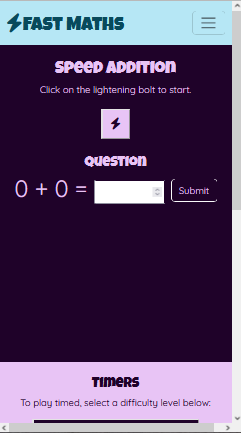
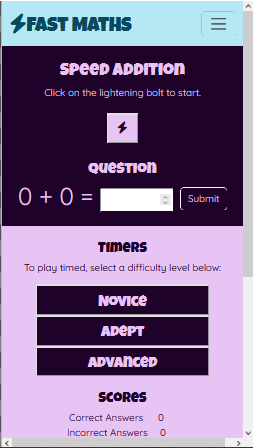
Added col-sm-12 to debug the calc() problem.

diff --git a/subtraction.html b/subtraction.html
@@ -63,7 +63,7 @@
 <!-- Game -->
 
 <div class="row g-0">
-    <div class="col-md-6 main-content game-area color-scheme-ax">
+    <div class="col-md-6 col-sm-12 main-content game-area color-scheme-ax">
         <section>
         <h1 class="main-title">Speed Subtraction</h1>
             <p>Click on the lightening bolt to start.</p>
@@ -93,7 +93,7 @@
 
 <!-- Timer -->
 
-    <div class="col-md-6 main-content color-scheme-ay">
+    <div class="col-md-6 col-sm-12 main-content color-scheme-ay">
         <section>
             <div class="row timer-row g-0">
                 <h3>Timers</h3>

diff --git a/addition.html b/addition.html
@@ -63,7 +63,7 @@
 <!-- Game -->
 
 <div class="row g-0">
-    <div class="col-md-6 main-content game-area color-scheme-ax">
+    <div class="col-md-6 col-sm-12 main-content game-area color-scheme-ax">
         <section>
         <h1 class="main-title">Speed Addition</h1>
             <p>Click on the lightening bolt to start.</p>
@@ -93,7 +93,7 @@
 
 <!-- Timer -->
 
-    <div class="col-md-6 main-content color-scheme-ay">
+    <div class="col-md-6 col-sm-12 main-content color-scheme-ay">
         <section>
             <div class="row timer-row g-0">
                 <h3>Timers</h3>

diff --git a/division.html b/division.html
@@ -63,7 +63,7 @@
 <!-- Game -->
 
 <div class="row g-0">
-    <div class="col-md-6 main-content game-area color-scheme-ax">
+    <div class="col-md-6 col-sm-12 main-content game-area color-scheme-ax">
         <section>
         <h1 class="main-title">Speed Division</h1>
             <p>Click on the lightening bolt to start.</p>
@@ -93,7 +93,7 @@
 
 <!-- Timer -->
 
-    <div class="col-md-6 main-content color-scheme-ay">
+    <div class="col-md-6 col-sm-12 main-content color-scheme-ay">
         <section>
             <div class="row timer-row g-0">
                 <h3>Timers</h3>

diff --git a/multiplication.html b/multiplication.html
@@ -63,7 +63,7 @@
 <!-- Game -->
 
 <div class="row g-0">
-    <div class="col-md-6 main-content game-area color-scheme-ax">
+    <div class="col-md-6 col-sm-12 main-content game-area color-scheme-ax">
         <section>
         <h1 class="main-title">Speed Mulitplication</h1>
             <p>Click on the lightening bolt to start.</p>
@@ -93,7 +93,7 @@
 
 <!-- Timer -->
 
-    <div class="col-md-6 main-content color-scheme-ay">
+    <div class="col-md-6 col-sm-12 main-content color-scheme-ay">
         <section>
         <div class="row timer-row g-0">
             <h3>Timers</h3>

diff --git a/TESTING.md b/TESTING.md
@@ -63,7 +63,7 @@ I used media genesis responsive design checker [Media Genesis responsive design 
 |Tablet Nexus 7|Screensize 600x960|[screenshot](assets/documents/screen-sizes/tablet600x960.png) |Too much blank space due to calc() otherwise working well.|
 |Phone Apple iPhone 7 Plus|Screensize 414x736|[screenshot](assets/documents/screen-sizes/phone414x736.png) |Too much blank space due to calc() otherwise working well.|
 |Phone Google Pixel|Screensize 411x731|[screenshot](assets/documents/screen-sizes/phone411x731.png) |Too much blank space due to calc() otherwise working well.|
-|Phone Sony Xperia Z3|Screensize 360x640|[screenshot](assets/documents/screen-sizes/phone360x640.png) |Too much blank space due to calc() otherwise working well.|
+|Phone Apple iphone5|Screensize 360x640|[screenshot](assets/documents/screen-sizes/phone320x480.png) |Too much blank space due to calc() otherwise working well.|
 
 ## Testing Website Speed
 
